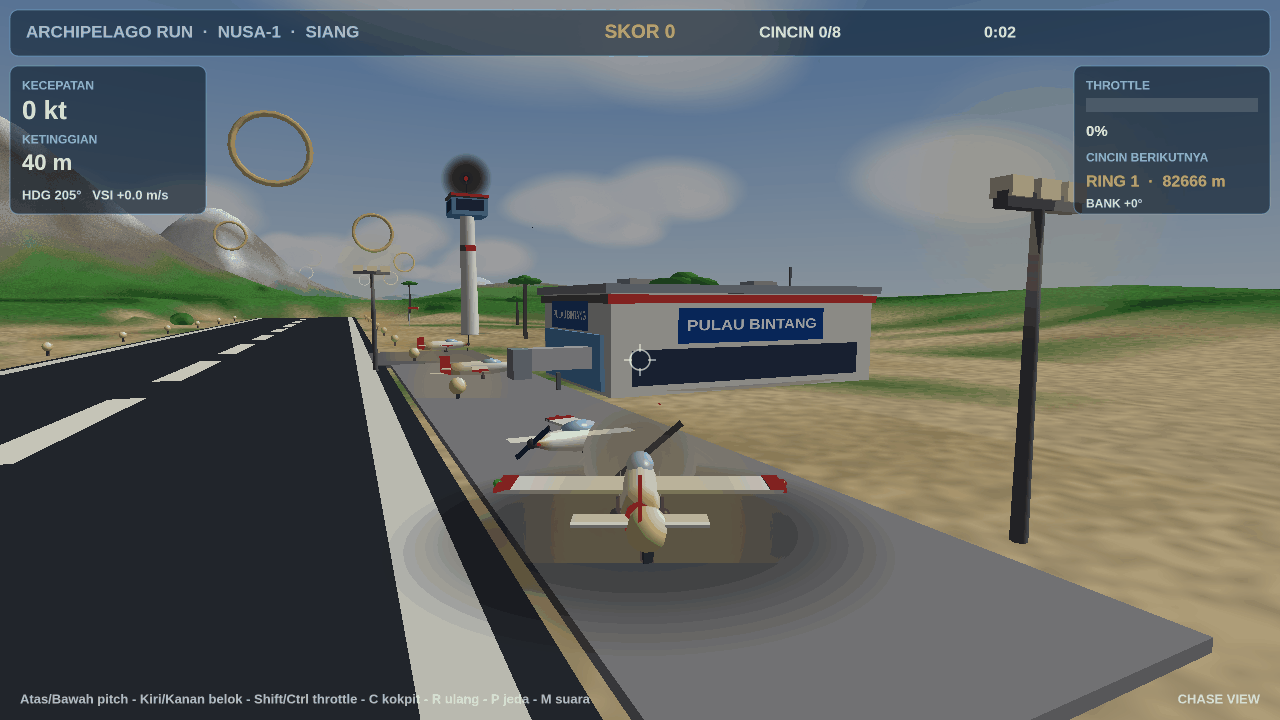
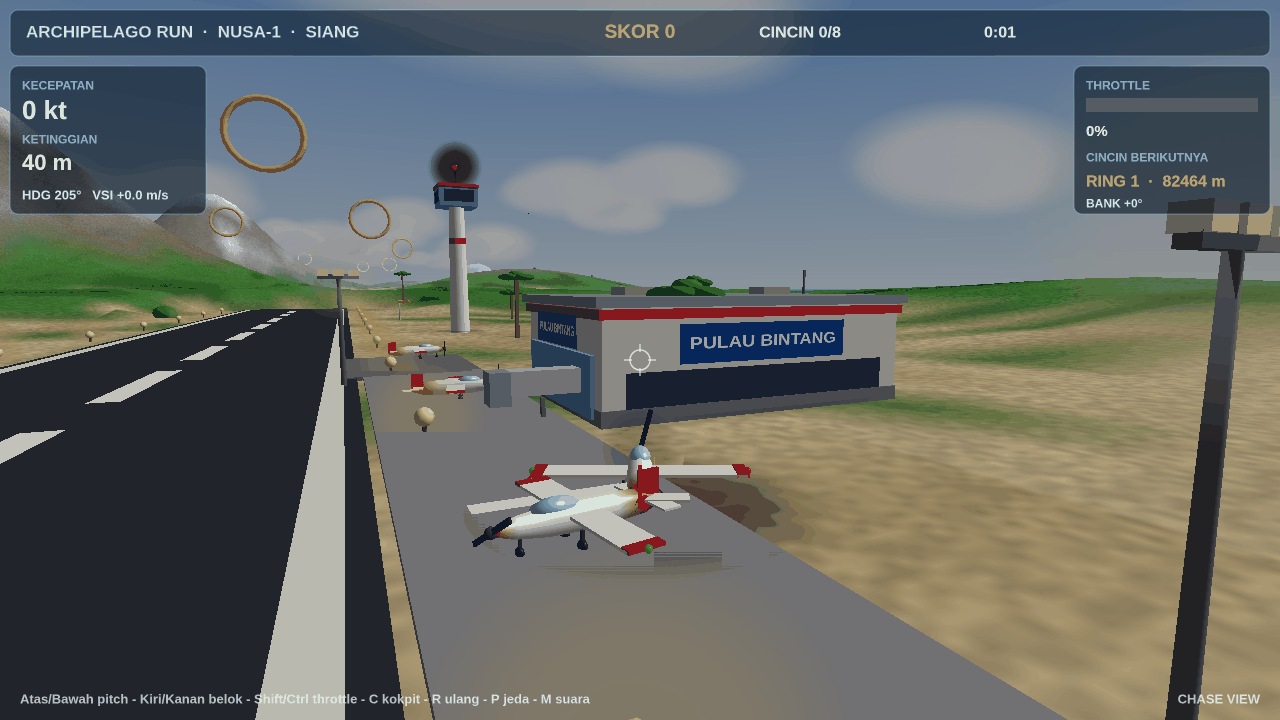
flight v2: reframe landed shot + plane landing gear + terminal plinth
- Landed shot reframed: camera pulled back (camDist 45, new S.camDist
  used by the chase camera) and the plane moved to (50,9140) so the
  plane reads at a natural size with the terminal + tower behind it
- Plane: nose wheel + strut added (tricycle gear now complete, so the
  parked plane sits on its wheels instead of floating)
- Terminal: darker plinth at the base (breaks the flat gray wall)
Playtest 9/9, no JS errors.

diff --git a/game/index.html b/game/index.html
@@ -43,7 +43,7 @@ const S={
   x:0,y:2,z:-40,heading:0,pitch:0,bank:0,speed:0,throttle:0,
   rings:0,score:0,time:0,vspeed:0,nextRing:0,
   crashed:false,landed:false,msg:'',msgT:0,fps:0,propAngle:0,
-  muted:false,newBest:false,mission:'day',engOut:false,landBonus:0,
+  muted:false,newBest:false,mission:'day',engOut:false,landBonus:0,camDist:34,
 };
 window.S=S;
 // best time (localStorage, survives reloads; silent if unavailable)
@@ -52,7 +52,7 @@ try{BEST=parseFloat(localStorage.getItem('archipelago-best'))||null;}catch(e){}
 // contrail: recent tail positions, drawn as soft sprites
 const TRAIL=[];let trailT=0;
 function resetState(){
-  S.started=false;S.paused=false;S.mode='takeoff';S.view='chase';
+  S.started=false;S.paused=false;S.mode='takeoff';S.view='chase';S.camDist=34;
   S.x=0;S.y=2;S.z=-40;S.heading=0;S.pitch=0;S.bank=0;S.speed=0;S.throttle=0;
   S.rings=0;S.score=0;S.time=0;S.vspeed=0;S.nextRing=0;
   S.crashed=false;S.landed=false;S.msg='';S.msgT=0;S.propAngle=0;
@@ -712,6 +712,7 @@ function buildAirport(){
   function terminal(cx,cz,w,h,d,signTex){
     const gy=groundY(cx,cz);
     meshBox(m,cx,gy+h/2,cz,w,h,d,0.88,0.87,0.84); // main hall
+    meshBox(m,cx,gy+1,cz,w+0.4,2,d+0.4,0.45,0.47,0.50); // darker plinth
     meshBox(m,cx-w/2-0.3,gy+h*0.32,cz,0.6,h*0.55,d*0.85,0.35,0.62,0.85); // glass band, runway side
     // lit windows on the long walls + far wall (taller band, reads at distance)
     const wy0=gy+h*0.10,wy1=gy+h*0.45,wuv=[[0,0],[1,0],[1,1],[0,1]];
@@ -833,6 +834,8 @@ function buildPlane(){
   meshBox(m,1.3,-0.9,1.2,0.22,1.1,0.22,0.2,0.2,0.22);
   meshSphere(m,-1.3,-1.5,1.2,0.5,0.5,0.35,0.12,0.12,0.14,8);
   meshSphere(m,1.3,-1.5,1.2,0.5,0.5,0.35,0.12,0.12,0.14,8);
+  meshBox(m,0,-0.8,5.2,0.2,1.0,0.2,0.2,0.2,0.22); // nose strut
+  meshSphere(m,0,-1.4,5.2,0.42,0.42,0.3,0.12,0.12,0.14,8); // nose wheel
   return meshToGL(m);
 }
 function buildProp(){
@@ -1124,7 +1127,8 @@ function render(){
     eye=[S.x+fwd[0]*3.5,S.y+1.6+fwd[1]*3.5,S.z+fwd[2]*3.5];
     center=[eye[0]+fwd[0]*100,eye[1]+fwd[1]*100+2,eye[2]+fwd[2]*100];
   }else{
-    eye=[S.x-fwd[0]*34,S.y-fwd[1]*34+11,S.z-fwd[2]*34];
+    const cd=S.camDist||34;
+    eye=[S.x-fwd[0]*cd,S.y-fwd[1]*cd+cd*0.32,S.z-fwd[2]*cd];
     center=[S.x+fwd[0]*60,S.y+2+fwd[1]*60,S.z+fwd[2]*60];
   }
   let f=[center[0]-eye[0],center[1]-eye[1],center[2]-eye[2]];
@@ -1622,7 +1626,7 @@ else if(scene==='ring'){S.started=true;S.mode='flying';S.x=380;S.y=230;S.z=2700;
 else if(scene==='landing'){S.started=true;S.mode='flying';S.x=0;S.y=55;S.z=8700;S.speed=40;S.throttle=0.3;S.pitch=-0.06;S.nextRing=8;}
 else if(scene==='cockpit'){S.started=true;S.view='cockpit';S.throttle=0.6;S.speed=30;}
 else if(scene==='cover'){S.started=true;S.mode='flying';S.x=250;S.y=260;S.z=650;S.heading=0;S.speed=75;S.throttle=0.55;S.pitch=0;S.nextRing=0;S.rings=0;S.score=0;}
-else if(scene==='landed'){S.started=true;S.mode='takeoff';S.x=40;S.y=4;S.z=9160;S.heading=2.7;S.speed=0;S.throttle=0;S.pitch=0;}
+else if(scene==='landed'){S.started=true;S.mode='takeoff';S.x=50;S.y=4;S.z=9140;S.heading=2.7;S.speed=0;S.throttle=0;S.pitch=0;S.camDist=45;}
 
 // ---------- main loop ----------
 let lastT=performance.now();
